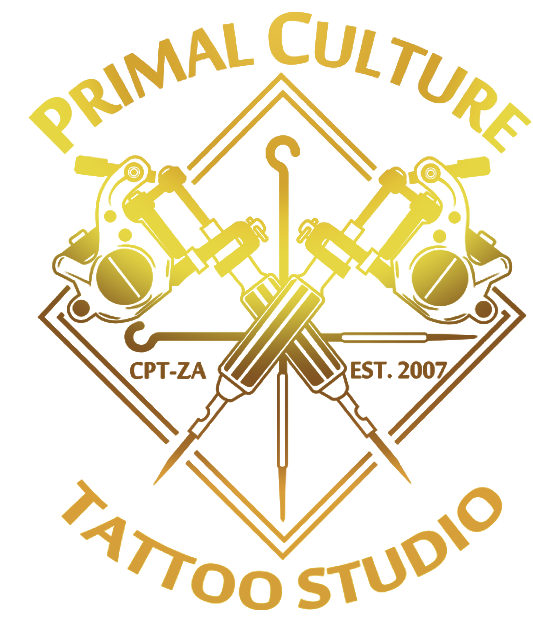
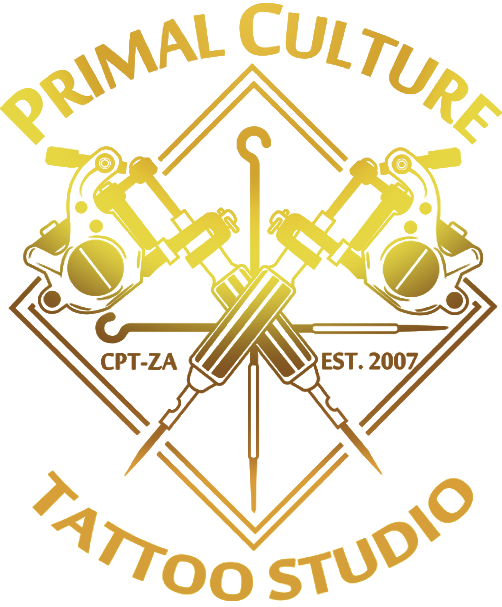
Tweaks
Fixed broken scrolling
Centered main image after redesigning.
Positioned overlay
Updated audio ID

diff --git a/css/styles.css b/css/styles.css
@@ -32,7 +32,8 @@
     align-items: center;
     display: flex;
     flex-direction: column;  
-    
+    /* min-height: 100vh;   */
+    overflow: auto;
   }
   
   .grid {
@@ -40,9 +41,9 @@
     justify-content: center;
     align-items: center;
     border: 2px solid var(--primary-color); /* Adjust the border style, width, and color as needed */
-    max-width: 80%; /* Adjust the width as needed */
-    height: auto; /* Adjust the height as needed */
-    margin-top: 1%;
+    /* max-width: 80%; Adjust the width as needed */
+    /* height: auto; Adjust the height as needed */
+    /* margin-top: 1%; */
     flex-wrap: wrap;
     flex-grow: 1;
     &::before {
@@ -67,8 +68,8 @@
     flex-grow: 1;
     padding: 20px; /* Adjust the padding as needed */
     border: 0px solid gray; /* Adjust the border style, width, and color as needed */
-    max-width: 400px; /* Set a specific width for the grid item */
-    max-height: 475px; /* Set a specific height for the grid item */
+    max-width: 502px; /* Set a specific width for the grid item */
+    max-height: 607px; /* Set a specific height for the grid item */
     
     align-content: flex-start;
     
@@ -93,7 +94,7 @@
     max-height: 75%;
     object-fit: contain;
     position: absolute;
-    top: 30%;
+    top: 40%;
     left: 50%;
     transform: translate(-50%, -50%);
   }
@@ -138,11 +139,13 @@
   .footer-container {
   padding: 20px;
   z-index: 10000;
-  position: fixed;
-  bottom: 0;
+  position: sticky;
+  /* bottom: 0; */
   left: 0;
   right: 0;
   background-color: var(--bg-color); /* Adjust background color as needed */
+  margin-top: 50px;
+    
 }
 .footer-container-item {
   display: flex;
@@ -175,7 +178,7 @@
     font-size: 24px; /* Adjust font size as needed */
     margin: 10px; /* Adjust margin as needed */
   }
-  .bigger {font-size: 32px;}
+  .bigger {font-size: 24px;}
   .footer-container code {
     text-align: center;
     display: block; /* Ensure the code element behaves like a block-level element */
@@ -192,6 +195,7 @@
     flex: 2; /* Make this item twice as wide */
   }
   .samford-img {max-width: 10%;}
+  
   
   @media (max-width: 600px) {
     .footer-container-item {

diff --git a/js/sound.js b/js/sound.js
@@ -8,13 +8,14 @@
 // function pauseAud() { 
 //   aud.pause(); 
 // } 
-var losAudio = document.getElementById("losAudio");
+
+var bobbleAudio = document.getElementById("bobbleAudio");
 var playPauseButton = document.getElementById("btn_playPause");
 
-function losAudio_playPause() {
-    var isPaused = losAudio.paused;
-    losAudio[isPaused ? "play" : "pause"]();
-    playPauseButton.innerHTML = '<i class="fa ' + (isPaused ? 'fa-music' : 'fa-pause') + ' bigger"></i>';
+function bobbleAudio_playPause() {
+    var isPaused = bobbleAudio.paused;
+    bobbleAudio[isPaused ? "play" : "pause"]();
+    playPauseButton.innerHTML = '<i class="fa ' + (isPaused ? 'fa-music' : 'fa-pause') + ' fa-beat" style="--fa-beat-scale: 2""></i>';
 }
 
-playPauseButton.addEventListener("click", losAudio_playPause);
+playPauseButton.addEventListener("click", bobbleAudio_playPause);

diff --git a/index.html b/index.html
@@ -54,14 +54,14 @@
       <div class="footer-container-item">
         <div class="item centered">
           <audio
-            id="losAudio"
+            id="bobbleAudio"
             src="audio/BubbleBobble.mp3"
             preload="auto"
             autoplay
             loop="loop"
           ></audio>
-          <button id="btn_playPause" value="">
-            <i class="fa-solid fa-music bigger"></i>
+          <button id="btn_playPause" value="" title="CLICK ME!">
+            <i class="fa-solid fa-music fa-beat" style="--fa-beat-scale: 2"></i>
           </button>
         </div>
         <div class="item centered wider-item">
